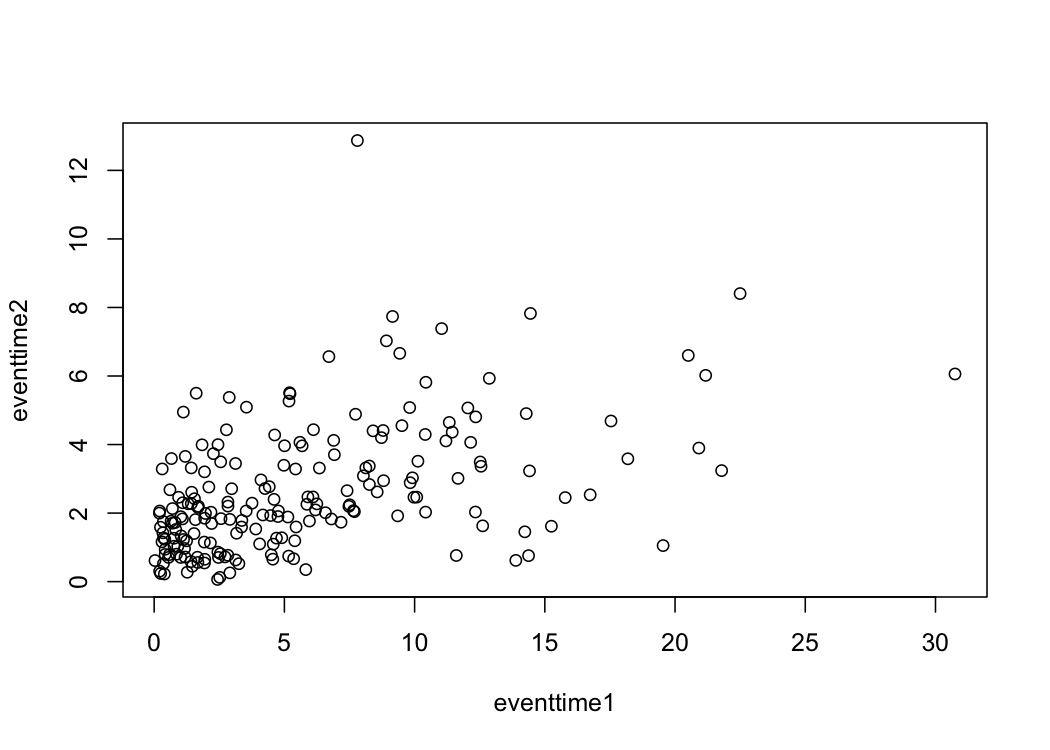
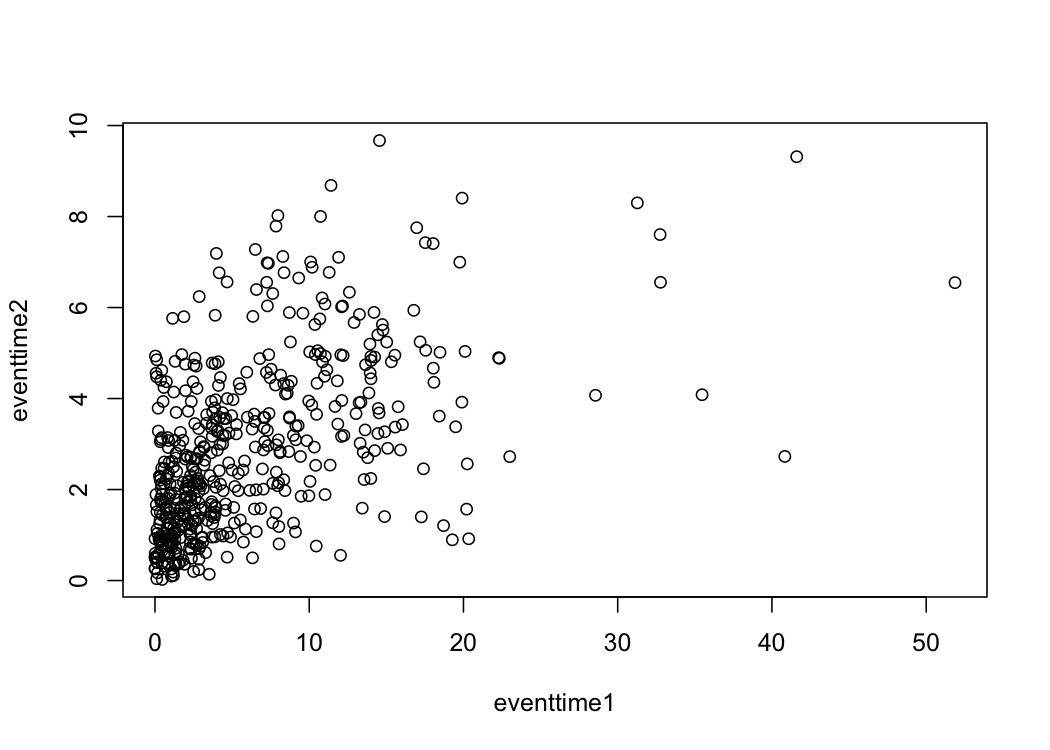
Added simple model fitting to example

diff --git a/README.md b/README.md
@@ -22,13 +22,14 @@ devtools::install_github("ellessenne/bicopula")
 
 ## Example
 
-This is a basic example which shows you how to solve a common problem:
+This is a basic example. Simulating some bivariate data:
 
 ``` r
 library(bicopula)
+#> Loading required package: survival
 
 set.seed(42)
-N <- 200
+N <- 500
 df <- data.frame(
   age = runif(N, 20, 40),
   sex = rbinom(N, size = 1, prob = 0.5),
@@ -46,7 +47,55 @@ simdata <- simulate_bisurv(
   copula = copula::frankCopula(param = 5)
 )
 
+head(simdata)
+#>   eventtime1 status1 eventtime2 status2
+#> 1 19.9125778       1  8.4047075       1
+#> 2  0.3118698       1  0.9653524       1
+#> 3 17.1881459       1  5.2461692       1
+#> 4  0.3472099       1  2.2786107       1
+#> 5  7.2249324       1  4.5745431       1
+#> 6  1.6068254       1  2.9668163       1
+
 with(simdata, plot(eventtime1, eventtime2))
 ```
 
 <img src="man/figures/README-example-1.png" width="90%" />
+
+Then, fitting a bivariate survival model:
+
+``` r
+df <- cbind(df, simdata)
+
+bisurvreg(
+  formula1 = Surv(eventtime1, status1) ~ age + sex,
+  distribution1 = "exponential",
+  formula2 = Surv(eventtime2, status2) ~ age + biomarker,
+  distribution2 = "weibull",
+  copula = "frank",
+  data = df
+)
+#> $par
+#>  (Intercept)          age          sex  (Intercept)          age    biomarker 
+#> -2.933330709  0.009289732  0.360414799 -3.047869671  0.008824681  0.004833773 
+#>        theta    ancillary 
+#>  4.110922938  0.448150921 
+#> 
+#> $objective
+#> [1] 2097.916
+#> 
+#> $convergence
+#> [1] 1
+#> 
+#> $iterations
+#> [1] 5
+#> 
+#> $evaluations
+#> function gradient 
+#>        6        5 
+#> 
+#> $message
+#> [1] "singular convergence (7)"
+```
+
+Lots of work needs to be done to make this *pretty*, but as a
+proof-of-concept it doesn’t feel too bad!
